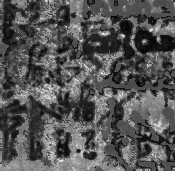
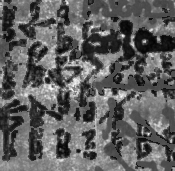
update result images;

diff --git a/autoencoder/models.py b/autoencoder/models.py
@@ -248,11 +248,6 @@ class conv2d_net(nn.Module):
                         kernel_size=kernel_size, 
                         stride=1),
             nn.ReLU(),
-            # nn.Conv2d(kernel_num[0], kernel_num[1], 
-            #             kernel_size=kernel_size, 
-            #             stride=1, 
-            #             padding=int((kernel_size-1)*0.5)),
-            # nn.ReLU(),
         )
         fc_inp_dim = 1 * kernel_num[0]
         self.fc_inp_dim = fc_inp_dim

diff --git a/autoencoder/conv_nd_classify_test_roi.py b/autoencoder/conv_nd_classify_test_roi.py
@@ -20,10 +20,11 @@ from utils import reconstruct_image, get_sample_image
 
 
 data_class = 'allClass'
-model_data_id = '024r_029v'
+folio_ids = ['024r_029v', '102v_107r', '214v_221r']
+model_data_id = folio_ids[2]
 data_id = '214v_221r'
 data_type = 'cropped_roi'
-conv_nd = 3
+conv_nd = 2
 is_fcnet = True
 
 

diff --git a/autoencoder/conv_nd_classify.py b/autoencoder/conv_nd_classify.py
@@ -20,7 +20,8 @@ from utils import reconstruct_image
 
 
 data_class = 'allClass'
-data_id = '024r_029v'
+folio_ids = ['024r_029v', '102v_107r', '214v_221r']
+data_id = folio_ids[2]
 data_type = 'cropped_roi'
 conv_nd = 3
 is_fcnet = True
